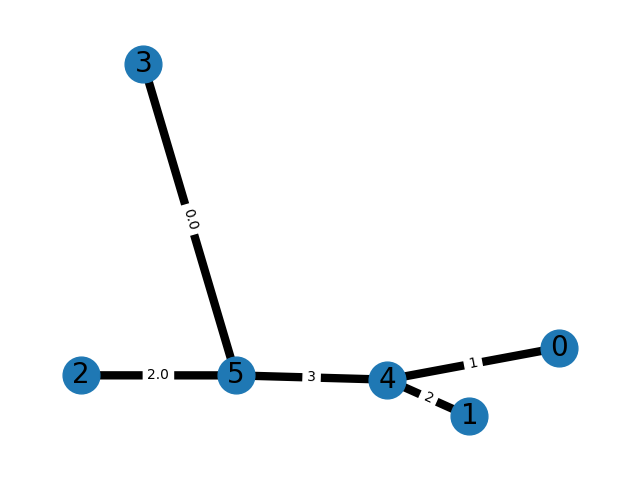
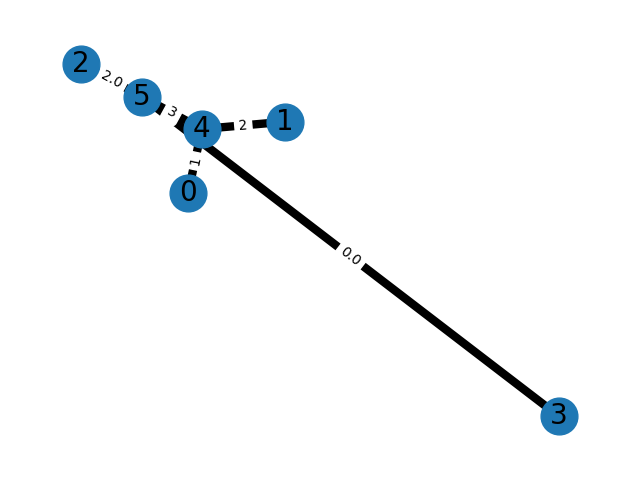
add first 10x10 example

Changed region(s): [[0.0938, 0.0938, 0.9062, 0.9062]]

diff --git a/additive phylogeny.py b/additive phylogeny.py
@@ -104,7 +104,7 @@ def weighted_adjacency_list(filename: str, graph: nx.Graph) -> None:
 
 
 def save_result(graph: nx.Graph, path: str) -> None:
-    position = nx.spring_layout(graph, seed=8)
+    position = nx.spring_layout(graph, seed=11)
     nx.draw_networkx_nodes(graph, position, node_size=700)
     nx.draw_networkx_edges(graph, position, width=6)
     labels = nx.get_edge_attributes(graph, 'weight')
@@ -121,7 +121,7 @@ def save_result(graph: nx.Graph, path: str) -> None:
 
 if __name__ == "__main__":
     input_dir, output_dir = 'examples/input/', 'examples/output/'
-    files = ['n4_1.txt', 'n4_2.txt', 'n5_1.txt']
+    files = ['n4_1.txt', 'n4_2.txt', 'n5_1.txt', 'n10_1.txt']
 
     for f in files:
         input_path = input_dir + f
